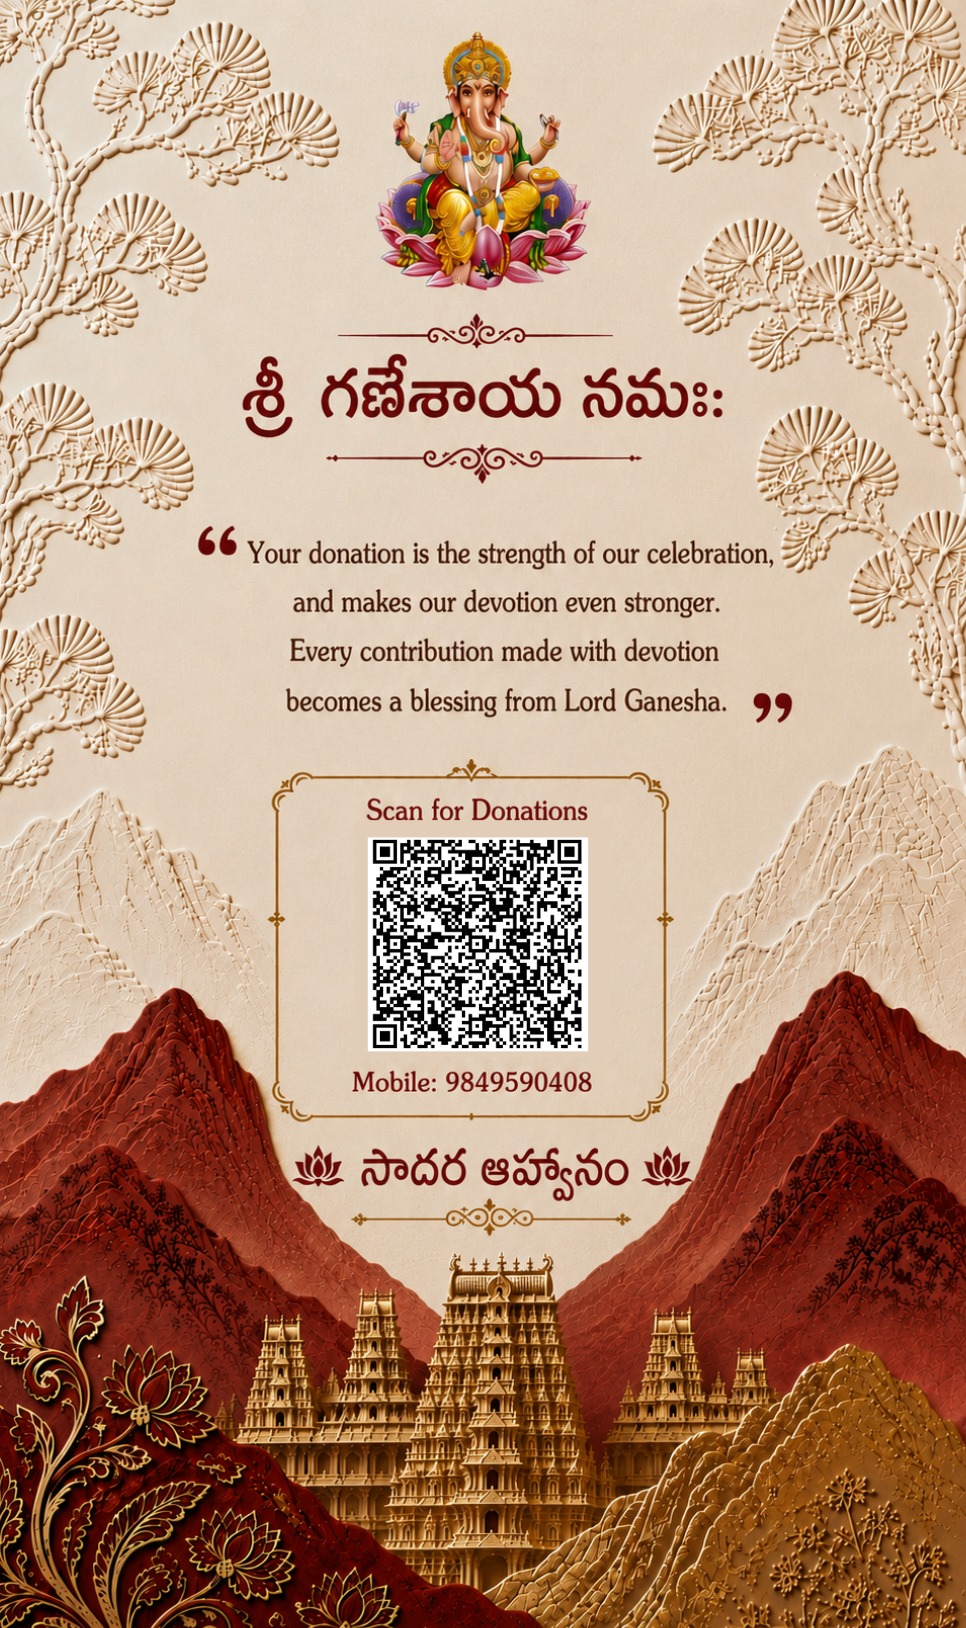
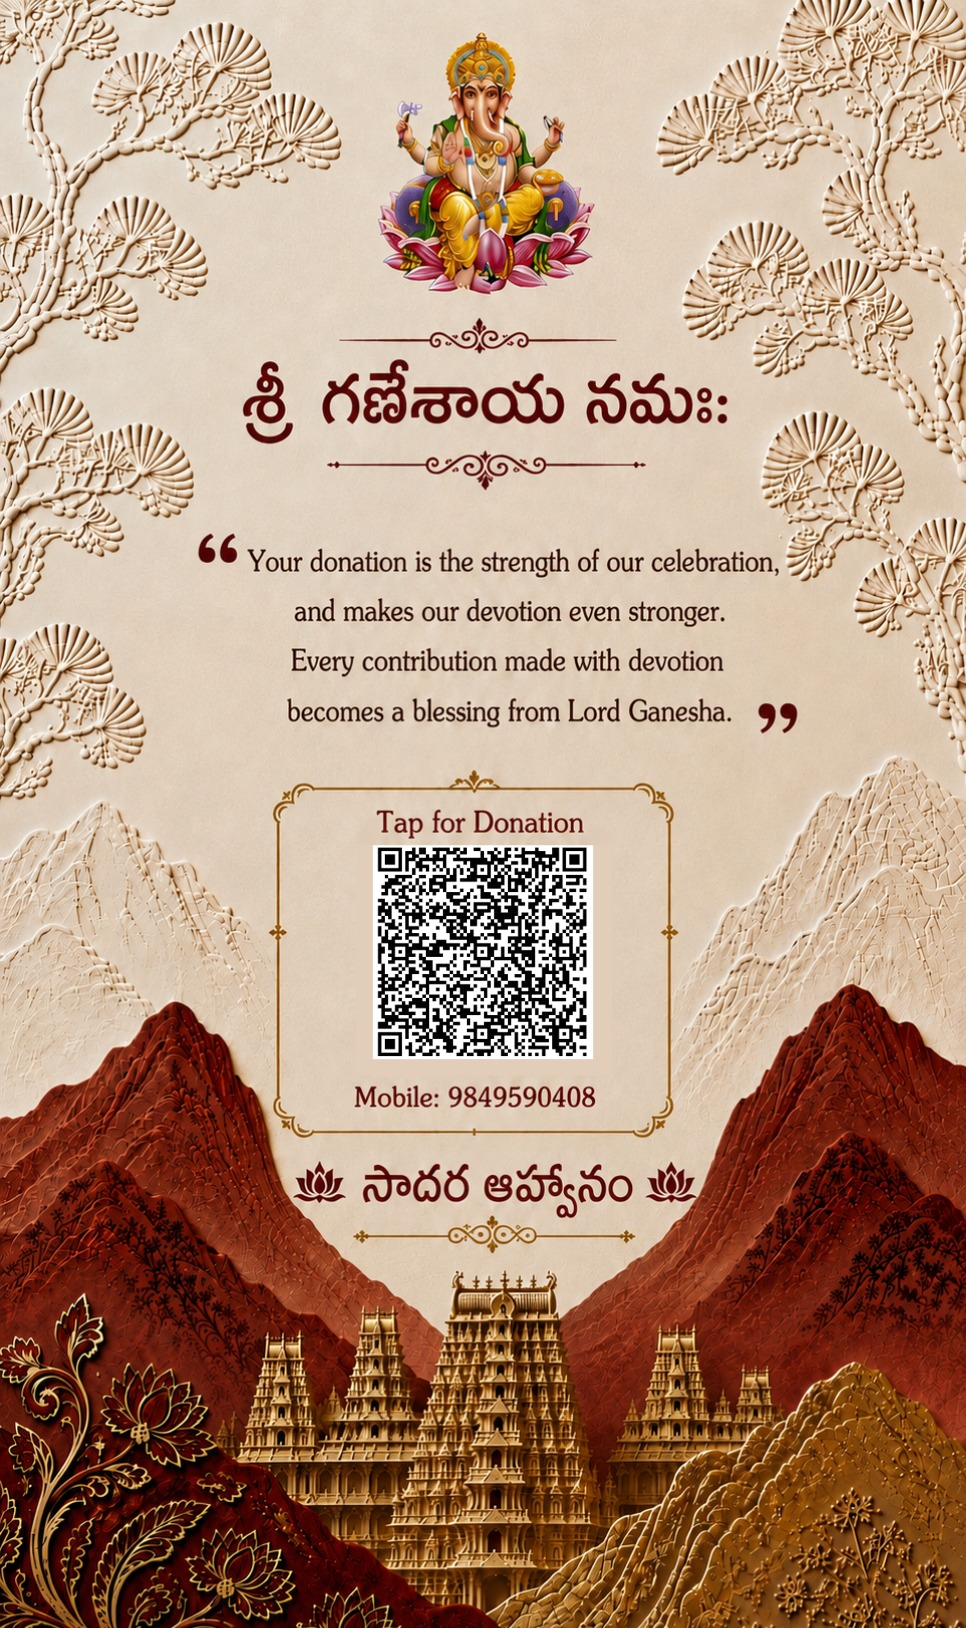
Update frame-14-donation-qr and calibrate UPI hyperlink alignment

diff --git a/css/experience.css b/css/experience.css
@@ -475,16 +475,16 @@ button {
 .qr-hotspot {
   left: 36.5%;
   width: 27%;
-  top: 51.2%;
-  height: 13.5%;
+  top: 51.5%;
+  height: 13.8%;
   border-radius: 10px;
 }
 
 .number-hotspot {
-  left: 23%;
-  width: 54%;
-  top: 65.3%;
-  height: 3.8%;
+  left: 28%;
+  width: 44%;
+  top: 65.7%;
+  height: 3.6%;
   border-radius: 6px;
   align-items: center;
 }
